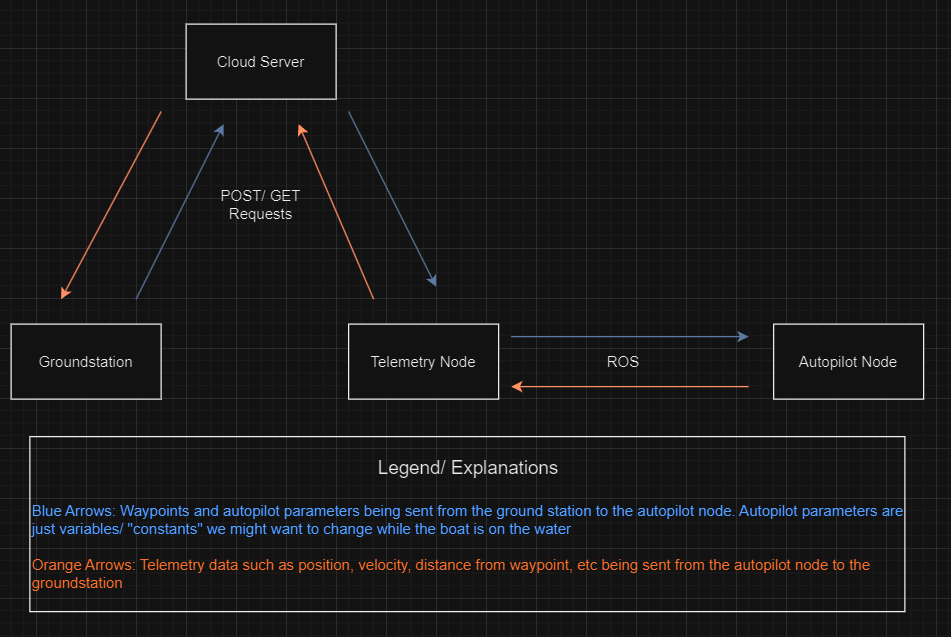
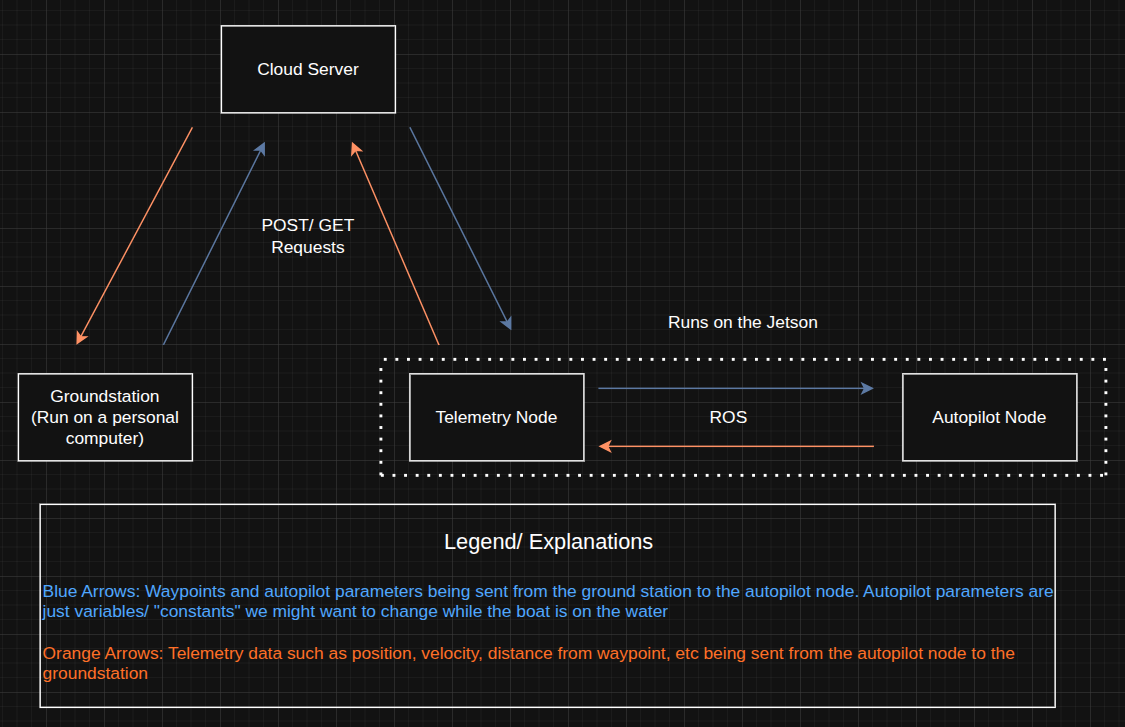
tweaks

diff --git a/docs/system_diagrams/diagram_of_groundstation_telemetry.md b/docs/system_diagrams/diagram_of_groundstation_telemetry.md
@@ -1,0 +1,3 @@
+# <p style="text-align: center;"> Flow of Information Between Groundstation and Autopilot Node </p>
+
+The following is the source file if you want to make edits to the diagram: [Flow of Telemetry Information Between Groundstation and Autopilot Node Source File Download](../images/diagram_of_groundstation_telemetry.png)

diff --git a/docs/system_diagrams/diagram_of_simulations.md b/docs/system_diagrams/diagram_of_simulations.md
@@ -1,0 +1,2 @@
+![Diagram of Simulations](../images/diagram_of_simulations.png)
+The following is the source file if you want to make edits to the diagram: [Simulation Diagram Source File Download](../system_diagram_files/sailbot_simulations.drawio.xml)
